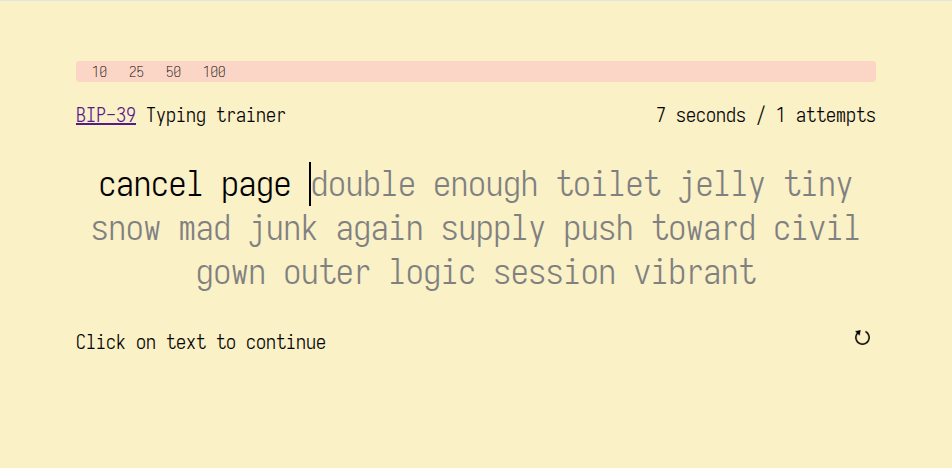
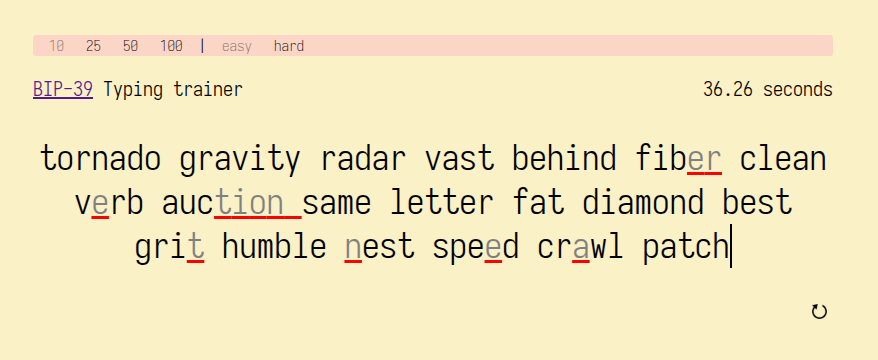
remove extra information from easy mode

diff --git a/resources/public/js/compiled/ivankytype.js b/resources/public/js/compiled/ivankytype.js
@@ -81,10 +81,10 @@ e.call=function(){function a(n,t,w,y,C,D,F,G,K,L,R,U,X,aa,fa,ma,ya,Da,Ra,Gb){n=t
 fa,ma,ya,Da):n.j.call(null,t,w,y,C,D,F,G,K,L,R,U,X,aa,fa,ma,ya,Da)}function d(n,t,w,y,C,D,F,G,K,L,R,U,X,aa,fa,ma,ya){n=this;return n.j.Aa?n.j.Aa(t,w,y,C,D,F,G,K,L,R,U,X,aa,fa,ma,ya):n.j.call(null,t,w,y,C,D,F,G,K,L,R,U,X,aa,fa,ma,ya)}function f(n,t,w,y,C,D,F,G,K,L,R,U,X,aa,fa,ma){n=this;return n.j.za?n.j.za(t,w,y,C,D,F,G,K,L,R,U,X,aa,fa,ma):n.j.call(null,t,w,y,C,D,F,G,K,L,R,U,X,aa,fa,ma)}function g(n,t,w,y,C,D,F,G,K,L,R,U,X,aa,fa){n=this;return n.j.ya?n.j.ya(t,w,y,C,D,F,G,K,L,R,U,X,aa,fa):n.j.call(null,
 t,w,y,C,D,F,G,K,L,R,U,X,aa,fa)}function h(n,t,w,y,C,D,F,G,K,L,R,U,X,aa){n=this;return n.j.xa?n.j.xa(t,w,y,C,D,F,G,K,L,R,U,X,aa):n.j.call(null,t,w,y,C,D,F,G,K,L,R,U,X,aa)}function k(n,t,w,y,C,D,F,G,K,L,R,U,X){n=this;return n.j.wa?n.j.wa(t,w,y,C,D,F,G,K,L,R,U,X):n.j.call(null,t,w,y,C,D,F,G,K,L,R,U,X)}function l(n,t,w,y,C,D,F,G,K,L,R,U){n=this;return n.j.va?n.j.va(t,w,y,C,D,F,G,K,L,R,U):n.j.call(null,t,w,y,C,D,F,G,K,L,R,U)}function m(n,t,w,y,C,D,F,G,K,L,R){n=this;return n.j.ua?n.j.ua(t,w,y,C,D,F,G,K,
 L,R):n.j.call(null,t,w,y,C,D,F,G,K,L,R)}function p(n,t,w,y,C,D,F,G,K,L){n=this;return n.j.Ia?n.j.Ia(t,w,y,C,D,F,G,K,L):n.j.call(null,t,w,y,C,D,F,G,K,L)}function q(n,t,w,y,C,D,F,G,K){n=this;return n.j.Ha?n.j.Ha(t,w,y,C,D,F,G,K):n.j.call(null,t,w,y,C,D,F,G,K)}function r(n,t,w,y,C,D,F,G){n=this;return n.j.Ga?n.j.Ga(t,w,y,C,D,F,G):n.j.call(null,t,w,y,C,D,F,G)}function v(n,t,w,y,C,D,F){n=this;return n.j.Fa?n.j.Fa(t,w,y,C,D,F):n.j.call(null,t,w,y,C,D,F)}function E(n,t,w,y,C,D){n=this;return n.j.ba?n.j.ba(t,
-w,y,C,D):n.j.call(null,t,w,y,C,D)}function I(n,t,w,y,C){n=this;return n.j.H?n.j.H(t,w,y,C):n.j.call(null,t,w,y,C)}function M(n,t,w,y){n=this;return n.j.l?n.j.l(t,w,y):n.j.call(null,t,w,y)}function V(n,t,w){n=this;return n.j.g?n.j.g(t,w):n.j.call(null,t,w)}function Z(n,t){n=this;return n.j.h?n.j.h(t):n.j.call(null,t)}function ja(n){n=this;return n.j.M?n.j.M():n.j.call(null)}var W=null;W=function(n,t,w,y,C,D,F,G,K,L,R,U,X,aa,fa,ma,ya,Da,Ra,Gb,nd,lf){switch(arguments.length){case 1:return ja.call(this,
+w,y,C,D):n.j.call(null,t,w,y,C,D)}function I(n,t,w,y,C){n=this;return n.j.H?n.j.H(t,w,y,C):n.j.call(null,t,w,y,C)}function M(n,t,w,y){n=this;return n.j.l?n.j.l(t,w,y):n.j.call(null,t,w,y)}function V(n,t,w){n=this;return n.j.g?n.j.g(t,w):n.j.call(null,t,w)}function Z(n,t){n=this;return n.j.h?n.j.h(t):n.j.call(null,t)}function ja(n){n=this;return n.j.M?n.j.M():n.j.call(null)}var W=null;W=function(n,t,w,y,C,D,F,G,K,L,R,U,X,aa,fa,ma,ya,Da,Ra,Gb,nd,mf){switch(arguments.length){case 1:return ja.call(this,
 n);case 2:return Z.call(this,n,t);case 3:return V.call(this,n,t,w);case 4:return M.call(this,n,t,w,y);case 5:return I.call(this,n,t,w,y,C);case 6:return E.call(this,n,t,w,y,C,D);case 7:return v.call(this,n,t,w,y,C,D,F);case 8:return r.call(this,n,t,w,y,C,D,F,G);case 9:return q.call(this,n,t,w,y,C,D,F,G,K);case 10:return p.call(this,n,t,w,y,C,D,F,G,K,L);case 11:return m.call(this,n,t,w,y,C,D,F,G,K,L,R);case 12:return l.call(this,n,t,w,y,C,D,F,G,K,L,R,U);case 13:return k.call(this,n,t,w,y,C,D,F,G,K,
 L,R,U,X);case 14:return h.call(this,n,t,w,y,C,D,F,G,K,L,R,U,X,aa);case 15:return g.call(this,n,t,w,y,C,D,F,G,K,L,R,U,X,aa,fa);case 16:return f.call(this,n,t,w,y,C,D,F,G,K,L,R,U,X,aa,fa,ma);case 17:return d.call(this,n,t,w,y,C,D,F,G,K,L,R,U,X,aa,fa,ma,ya);case 18:return c.call(this,n,t,w,y,C,D,F,G,K,L,R,U,X,aa,fa,ma,ya,Da);case 19:return b.call(this,n,t,w,y,C,D,F,G,K,L,R,U,X,aa,fa,ma,ya,Da,Ra);case 20:return a.call(this,n,t,w,y,C,D,F,G,K,L,R,U,X,aa,fa,ma,ya,Da,Ra,Gb);case 21:return this.j.Ea?this.j.Ea(t,
-w,y,C,D,F,G,K,L,R,U,X,aa,fa,ma,ya,Da,Ra,Gb,nd):this.j.call(null,t,w,y,C,D,F,G,K,L,R,U,X,aa,fa,ma,ya,Da,Ra,Gb,nd);case 22:var rb=this.j;var fc=zc([D,F,G,K,L,R,U,X,aa,fa,ma,ya,Da,Ra,Gb,nd,lf]);if(rb.ja){var gc=Lc(fc);fc=yc(t,yc(w,yc(y,yc(C,gc))));var pe=rb.ea;gc=4+Mc(pe-3,gc);rb=gc<=pe?Nc(rb,gc,fc):rb.ja(fc)}else rb=Oc(rb,t,w,y,C,Lc(fc));return rb}throw Error("Invalid arity: "+(arguments.length-1));};W.h=ja;W.g=Z;W.l=V;W.H=M;W.ba=I;W.Fa=E;W.Ga=v;W.Ha=r;W.Ia=q;W.ua=p;W.va=m;W.wa=l;W.xa=k;W.ya=h;W.za=
+w,y,C,D,F,G,K,L,R,U,X,aa,fa,ma,ya,Da,Ra,Gb,nd):this.j.call(null,t,w,y,C,D,F,G,K,L,R,U,X,aa,fa,ma,ya,Da,Ra,Gb,nd);case 22:var rb=this.j;var fc=zc([D,F,G,K,L,R,U,X,aa,fa,ma,ya,Da,Ra,Gb,nd,mf]);if(rb.ja){var gc=Lc(fc);fc=yc(t,yc(w,yc(y,yc(C,gc))));var pe=rb.ea;gc=4+Mc(pe-3,gc);rb=gc<=pe?Nc(rb,gc,fc):rb.ja(fc)}else rb=Oc(rb,t,w,y,C,Lc(fc));return rb}throw Error("Invalid arity: "+(arguments.length-1));};W.h=ja;W.g=Z;W.l=V;W.H=M;W.ba=I;W.Fa=E;W.Ga=v;W.Ha=r;W.Ia=q;W.ua=p;W.va=m;W.wa=l;W.xa=k;W.ya=h;W.za=
 g;W.Aa=f;W.Ba=d;W.Ca=c;W.Da=b;W.Ea=a;return W}();e.apply=function(a,b){var c=va(b);a=this.call;b=a.apply;var d=[this],f=d.concat;if(20<c.length){var g=c.slice(0,20);g.push(c.slice(20));c=g}return b.call(a,this,f.call(d,c))};e.M=function(){return this.j.M?this.j.M():this.j.call(null)};e.h=function(a){return this.j.h?this.j.h(a):this.j.call(null,a)};e.g=function(a,b){return this.j.g?this.j.g(a,b):this.j.call(null,a,b)};e.l=function(a,b,c){return this.j.l?this.j.l(a,b,c):this.j.call(null,a,b,c)};
 e.H=function(a,b,c,d){return this.j.H?this.j.H(a,b,c,d):this.j.call(null,a,b,c,d)};e.ba=function(a,b,c,d,f){return this.j.ba?this.j.ba(a,b,c,d,f):this.j.call(null,a,b,c,d,f)};e.Fa=function(a,b,c,d,f,g){return this.j.Fa?this.j.Fa(a,b,c,d,f,g):this.j.call(null,a,b,c,d,f,g)};e.Ga=function(a,b,c,d,f,g,h){return this.j.Ga?this.j.Ga(a,b,c,d,f,g,h):this.j.call(null,a,b,c,d,f,g,h)};e.Ha=function(a,b,c,d,f,g,h,k){return this.j.Ha?this.j.Ha(a,b,c,d,f,g,h,k):this.j.call(null,a,b,c,d,f,g,h,k)};
 e.Ia=function(a,b,c,d,f,g,h,k,l){return this.j.Ia?this.j.Ia(a,b,c,d,f,g,h,k,l):this.j.call(null,a,b,c,d,f,g,h,k,l)};e.ua=function(a,b,c,d,f,g,h,k,l,m){return this.j.ua?this.j.ua(a,b,c,d,f,g,h,k,l,m):this.j.call(null,a,b,c,d,f,g,h,k,l,m)};e.va=function(a,b,c,d,f,g,h,k,l,m,p){return this.j.va?this.j.va(a,b,c,d,f,g,h,k,l,m,p):this.j.call(null,a,b,c,d,f,g,h,k,l,m,p)};e.wa=function(a,b,c,d,f,g,h,k,l,m,p,q){return this.j.wa?this.j.wa(a,b,c,d,f,g,h,k,l,m,p,q):this.j.call(null,a,b,c,d,f,g,h,k,l,m,p,q)};
@@ -269,11 +269,11 @@ wc.prototype.W=x;wc.prototype.L=function(a,b,c){return Re(b,Ye,"("," ",")",c,thi
 Ad.prototype.L=function(a,b,c){mb(b,"#object[cljs.core.Atom ");Ye(new Eb(null,1,[ef,this.state],null),b,c);return mb(b,"]")};Le.prototype.W=x;Le.prototype.L=function(a,b,c){return Re(b,Ye,"("," ",")",c,this)};Ed.prototype.W=x;Ed.prototype.L=function(a,b,c){return Re(b,Ye,"("," ",")",c,this)};Td.prototype.W=x;Td.prototype.L=function(a,b,c){return Re(b,Ye,"["," ","]",c,this)};gd.prototype.W=x;gd.prototype.L=function(a,b){return mb(b,"()")};Eb.prototype.W=x;
 Eb.prototype.L=function(a,b,c){return Ze(this,b,c)};Pe.prototype.W=x;Pe.prototype.L=function(a,b,c){return Re(b,Ye,"("," ",")",c,this)};Ke.prototype.W=x;Ke.prototype.L=function(a,b,c){return Re(b,Ye,"("," ",")",c,this)};Ec.prototype.W=x;Ec.prototype.L=function(a,b,c){return Re(b,Ye,"("," ",")",c,this)};if("undefined"===typeof ka||"undefined"===typeof la||"undefined"===typeof ff)var ff=null;
 "undefined"!==typeof console&&(oa=function(){var a=arguments;return console.log.apply(console,ha.call(null,a))},pa=function(){var a=arguments;return console.error.apply(console,ha.call(null,a))});if("undefined"===typeof ka||"undefined"===typeof la||"undefined"===typeof gf)var gf=function(){throw Error("cljs.core/*eval* not bound");};var Ib=new Zb(null,"meta","meta",1499536964),Jb=new Zb(null,"dup","dup",556298533),hf=new Zb(null,"mode","mode",654403691),ef=new Zb(null,"val","val",128701612),af=new Zb(null,"fallback-impl","fallback-impl",-1501286995),Fb=new Zb(null,"flush-on-newline","flush-on-newline",-151457939),jf=new Zb(null,"size","size",1098693007),Hb=new Zb(null,"readably","readably",1129599760),Se=new Zb(null,"more-marker","more-marker",-14717935),Kb=new Zb(null,"print-length","print-length",1931866356),$e=new Zb(null,
-"alt-impl","alt-impl",670969595);var kf=document.getElementById("input"),mf=document.getElementById("txt"),nf=document.getElementById("done"),of=document.getElementById("stat"),pf=document.getElementById("sizes"),qf=document.getElementById("warn"),rf=document.getElementById("restart"),sf=document.getElementById("hard-mode"),tf=document.getElementById("easy-mode"),uf=T(mf.innerText)-1,vf=cc.g("active",tf.className),wf=new Ad(!1),xf=new Ad(null),yf=new Ad(null),zf=new Ad(0);
-function Af(){if(z(Va(xf))){var a=Va(yf);a=((z(a)?a:Date.now())-Va(xf))/1E3;var b=Math.pow(10,2);a=Math.round(a*b)/b}else a=0;return of.innerText=[H.h(a)," seconds / ",H.h(Va(zf))," attempts"].join("")}
-function Bf(a){Bd(wf,!0);Cd.g(zf,function(g){return 1+g});a=N(hd(0>=a?P:Zc(0)&&Zc(a)&&Zc(1)?new Oe(null,0,a,1,Math.ceil(a-0),null):new Pe(null,0,a,1,null,null,null)));for(var b=null,c=0,d=0;;)if(d<c){var f=b.K(null,d);f=document.getElementById(f);f.classList.add("unfill");mf.prepend(f);d+=1}else if(a=N(a))Vc(a)?(c=vb(a),a=wb(a),b=c,c=T(c)):(f=O(a),b=document.getElementById(f),b.classList.add("unfill"),mf.prepend(b),a=Q(a),b=null,c=0),d=0;else break}
-kf.addEventListener("keydown",function(a){null==Va(xf)&&Bd(xf,Date.now());z(Va(wf))&&(kf.value="",Bd(wf,!1));if(null==Va(yf)){var b=a.key,c=T(kf.value),d=O(mf.innerText),f=document.getElementById(c);cc.g(T(b),1)?cc.g(d,b)?(f.classList.remove("unfill"),nf.append(f)):vf?(nf.append(f),f.className="error"):Bf(c):cc.g(b,"Backspace")?(a=document.getElementById(c-1),a.className="unfill",mf.prepend(a)):(console.log("Unexpected event"),console.log(a));return uf<=c?Bd(yf,Date.now()):null}return null});
-kf.addEventListener("focusout",function(){return qf.innerText="Click on text to continue"});mf.addEventListener("click",function(){qf.innerText="";return kf.focus()});rf.addEventListener("click",function(){return location.reload()});Af();setInterval(Af,100);
+"alt-impl","alt-impl",670969595);var kf=document.getElementById("input"),lf=document.getElementById("txt"),nf=document.getElementById("done"),of=document.getElementById("stat"),pf=document.getElementById("sizes"),qf=document.getElementById("warn"),rf=document.getElementById("restart"),sf=document.getElementById("hard-mode"),tf=document.getElementById("easy-mode"),uf=T(lf.innerText)-1,vf=cc.g("active",tf.className),wf=new Ad(!1),xf=new Ad(null),yf=new Ad(null),zf=new Ad(0);
+function Af(){if(z(Va(xf))){var a=Va(yf);a=((z(a)?a:Date.now())-Va(xf))/1E3;var b=Math.pow(10,2);a=Math.round(a*b)/b}else a=0;return of.innerText=[H.h(a)," seconds",vf?"":[" / ",H.h(Va(zf))," attempts"].join("")].join("")}
+function Bf(a){Bd(wf,!0);Cd.g(zf,function(g){return 1+g});a=N(hd(0>=a?P:Zc(0)&&Zc(a)&&Zc(1)?new Oe(null,0,a,1,Math.ceil(a-0),null):new Pe(null,0,a,1,null,null,null)));for(var b=null,c=0,d=0;;)if(d<c){var f=b.K(null,d);f=document.getElementById(f);f.classList.add("unfill");lf.prepend(f);d+=1}else if(a=N(a))Vc(a)?(c=vb(a),a=wb(a),b=c,c=T(c)):(f=O(a),b=document.getElementById(f),b.classList.add("unfill"),lf.prepend(b),a=Q(a),b=null,c=0),d=0;else break}
+kf.addEventListener("keydown",function(a){null==Va(xf)&&Bd(xf,Date.now());z(Va(wf))&&(kf.value="",Bd(wf,!1));if(null==Va(yf)){var b=a.key,c=T(kf.value),d=O(lf.innerText),f=document.getElementById(c);cc.g(T(b),1)?cc.g(d,b)?(f.classList.remove("unfill"),nf.append(f)):vf?(nf.append(f),f.className="error"):Bf(c):cc.g(b,"Backspace")?(a=document.getElementById(c-1),a.className="unfill",lf.prepend(a)):(console.log("Unexpected event"),console.log(a));return uf<=c?Bd(yf,Date.now()):null}return null});
+kf.addEventListener("focusout",function(){return qf.innerText="Click on text to continue"});lf.addEventListener("click",function(){qf.innerText="";return kf.focus()});rf.addEventListener("click",function(){return location.reload()});Af();setInterval(Af,100);
 function Cf(a){var b=document.URL;b="/(?:)/"===H.h("?")?Cc.g(Xd(yc("",Dd.g(H,N(b)))),""):Xd(H.h(b).split("?"));if(1<T(b))a:for(;;)if(""===(null==b?null:Sa(b)))b=null==b?null:Ta(b);else{var c=b;break a}else c=b;b=O(c);var d=URLSearchParams;c=O(Q(c));d=new d(z(c)?c:"");c=N(je(a));for(var f=null,g=0,h=0;;)if(h<g){var k=f.K(null,h);d.set(ld(k),k.h?k.h(a):k.call(null,a));h+=1}else if(c=N(c))f=c,Vc(f)?(c=vb(f),h=wb(f),f=c,g=T(c),c=h):(c=O(f),d.set(ld(c),c.h?c.h(a):c.call(null,a)),c=Q(f),f=null,g=0),h=0;
 else break;return[H.h(b),"?",H.h(d.toString())].join("")}
 for(var Df=N(pf.children),Ef=null,Ff=0,Gf=0;;)if(Gf<Ff){var Hf=Ef.K(null,Gf);Hf.addEventListener("click",function(a,b,c,d,f){return function(){return location.replace(Cf(new Eb(null,1,[jf,f],null)))}}(Df,Ef,Ff,Gf,Hf.innerText,Hf));Gf+=1}else{var If=N(Df);if(If){var Jf=If;if(Vc(Jf)){var Kf=vb(Jf),Lf=wb(Jf),Mf=Kf,Nf=T(Kf);Df=Lf;Ef=Mf;Ff=Nf}else{var Of=O(Jf);Of.addEventListener("click",function(a,b,c,d,f){return function(){return location.replace(Cf(new Eb(null,1,[jf,f],null)))}}(Df,Ef,Ff,Gf,Of.innerText,
